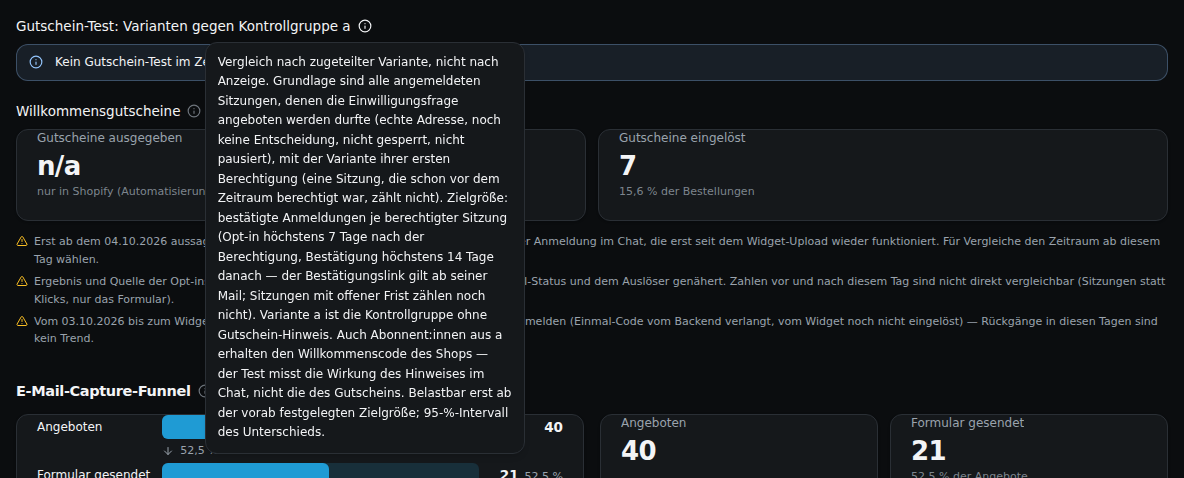
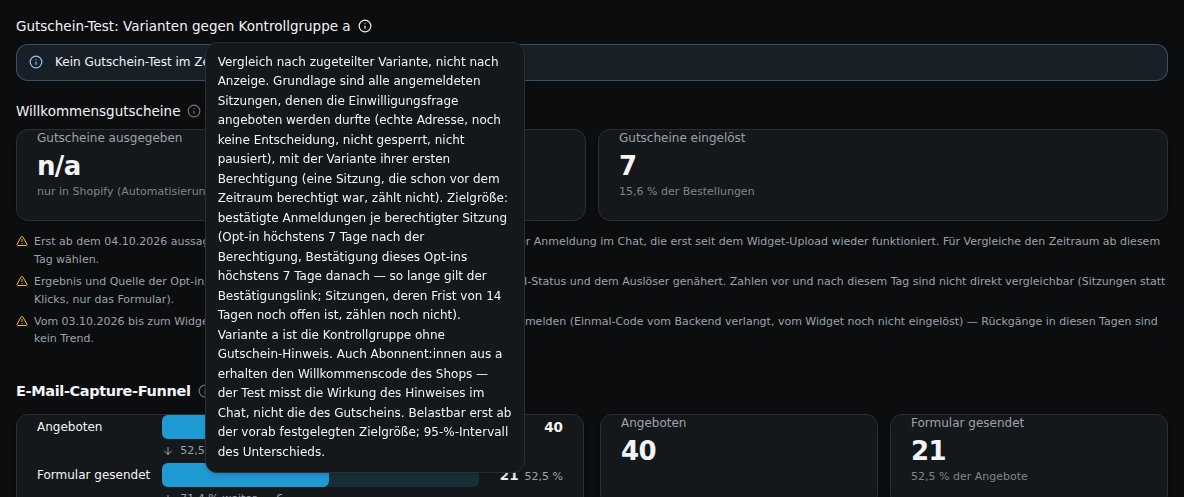
Gutschein-Test: count only confirmations of an in-window opt-in
A confirmation counts when it belongs to an opt-in that mailed a link
within the window, at most the link's life after that opt-in (the same
capture when both events carry captureId). InfoTip and screenshots updated.

Claude-Session: https://claude.ai/code/session_012fxHBW88bMmfRpyx9fu3p7

diff --git a/src/lib/kpi-consent-experiment-store.ts b/src/lib/kpi-consent-experiment-store.ts
@@ -8,8 +8,9 @@
 //   getConsentExperiment — intention-to-treat per assigned variant: every
 //     signed-in session the ask may be offered to (server event
 //     consent_ask_eligible, consent-ask-kpi.ts) with its FIRST assigned
-//     variant; opt-in, DOI mail and confirmation in the same session within
-//     MARKETING_DOI_EXPIRY_DAYS after it; folded by consent-experiment.mjs.
+//     variant; opt-in and DOI mail in the same session within
+//     MARKETING_DOI_EXPIRY_DAYS after it, the confirmation of such an opt-in
+//     within the link's life after the opt-in; folded by consent-experiment.mjs.
 //     Orders / revenue per arm are deliberately not included (open option:
 //     customer_session_links → customer_orders, 30-day window, aggregate only,
 //     after the owner's OK).
@@ -41,7 +42,7 @@ const CONSENT_EXPERIMENT_MAX = 20_000;
 export type ConsentExperimentSummary = ReturnType<typeof summariseConsentExperiment>;
 
 export interface ConsentExperimentKpis extends ConsentExperimentSummary {
-  /** Days after eligibility in which an opt-in counts (MARKETING_DOI_EXPIRY_DAYS); a confirmation counts up to twice that. */
+  /** Days after eligibility in which an opt-in counts (MARKETING_DOI_EXPIRY_DAYS); its confirmation counts up to as many days after the opt-in. */
   windowDays: number;
   /** More than CONSENT_EXPERIMENT_MAX eligible sessions in the period (the latest are left out). */
   truncated: boolean;
@@ -89,9 +90,9 @@ export async function getConsentExperiment(
         SELECT * FROM s ORDER BY at LIMIT ${CONSENT_EXPERIMENT_MAX}
       ), f AS (
         SELECT e.*,
-               -- Opt-ins count up to the expiry days after eligibility, confirmations
-               -- up to twice that (a DOI link stays valid that long after its mail), so a
-               -- late opt-in's click still counts once the window has closed.
+               -- Opt-ins count up to the expiry days after eligibility, their
+               -- confirmation up to the link's life after the opt-in — so the window
+               -- closes twice the expiry days after eligibility.
                e.at <= now() - make_interval(days => ${days * 2}::int) AS window_closed,
                e.at >= ${start}::date AS after_start,
                EXISTS (
@@ -126,12 +127,28 @@ export async function getConsentExperiment(
                          OR (o.data->>'outcome' IS NULL
                              AND COALESCE((o.data->>'alreadyConfirmed')::boolean, o.data->>'doiStatus' = 'confirmed')))
                ) AS already_subscribed,
+               -- A confirmation of an in-window opt-in that mailed a link, at most
+               -- the link's life after that opt-in (the same capture when both
+               -- events carry captureId); a later opt-in's click does not count.
                EXISTS (
-                 SELECT 1 FROM kpi_events c
-                  WHERE c.session_id = e.session_id
+                 SELECT 1 FROM kpi_events o
+                   JOIN kpi_events c
+                     ON c.session_id = o.session_id
                     AND c.event = ${KPI_EMAIL_CAPTURE_MARKETING_CONFIRMED}
-                    AND c.created_at >= e.at
-                    AND c.created_at <= e.at + make_interval(days => ${days * 2}::int)
+                    AND c.created_at >= o.created_at
+                    AND c.created_at <= o.created_at + make_interval(days => ${days}::int)
+                    AND (c.data->>'captureId' IS NULL OR o.data->>'captureId' IS NULL
+                         OR c.data->>'captureId' = o.data->>'captureId')
+                  WHERE o.session_id = e.session_id
+                    AND o.event = ${KPI_EMAIL_CAPTURE_MARKETING_OPTED_IN}
+                    AND o.data->>'trigger' = 'signin_optin'
+                    AND o.created_at >= e.at
+                    AND o.created_at <= e.at + make_interval(days => ${days}::int)
+                    AND CASE WHEN o.data->>'outcome' IS NOT NULL
+                             THEN o.data->>'outcome' = 'doi_required'
+                             ELSE COALESCE((o.data->>'doiRequired')::boolean, o.data->>'doiStatus' = 'pending')
+                                  AND COALESCE(o.data->>'doiCooldown', 'false') <> 'true' END
+                    AND COALESCE(o.data->>'doiSent', 'true') <> 'false'
                ) AS confirmed
           FROM e
       )

diff --git a/src/app/admin/kpi/sections/ConsentGateSection.tsx b/src/app/admin/kpi/sections/ConsentGateSection.tsx
@@ -50,7 +50,7 @@ const VARIANT_INFO =
 
 /** @param days MARKETING_DOI_EXPIRY_DAYS (default 7) */
 const experimentInfo = (days: number) =>
-  `Vergleich nach zugeteilter Variante, nicht nach Anzeige. Grundlage sind alle angemeldeten Sitzungen, denen die Einwilligungsfrage angeboten werden durfte (echte Adresse, noch keine Entscheidung, nicht gesperrt, nicht pausiert), mit der Variante ihrer ersten Berechtigung (eine Sitzung, die schon vor dem Zeitraum berechtigt war, zählt nicht). Zielgröße: bestätigte Anmeldungen je berechtigter Sitzung (Opt-in höchstens ${num(days)} Tage nach der Berechtigung, Bestätigung höchstens ${num(days * 2)} Tage danach — der Bestätigungslink gilt ab seiner Mail; Sitzungen mit offener Frist zählen noch nicht). Variante a ist die Kontrollgruppe ohne Gutschein-Hinweis. Auch Abonnent:innen aus a erhalten den Willkommenscode des Shops — der Test misst die Wirkung des Hinweises im Chat, nicht die des Gutscheins. Belastbar erst ab der vorab festgelegten Zielgröße; 95-%-Intervall des Unterschieds.`;
+  `Vergleich nach zugeteilter Variante, nicht nach Anzeige. Grundlage sind alle angemeldeten Sitzungen, denen die Einwilligungsfrage angeboten werden durfte (echte Adresse, noch keine Entscheidung, nicht gesperrt, nicht pausiert), mit der Variante ihrer ersten Berechtigung (eine Sitzung, die schon vor dem Zeitraum berechtigt war, zählt nicht). Zielgröße: bestätigte Anmeldungen je berechtigter Sitzung (Opt-in höchstens ${num(days)} Tage nach der Berechtigung, Bestätigung dieses Opt-ins höchstens ${num(days)} Tage danach — so lange gilt der Bestätigungslink; Sitzungen, deren Frist von ${num(days * 2)} Tagen noch offen ist, zählen noch nicht). Variante a ist die Kontrollgruppe ohne Gutschein-Hinweis. Auch Abonnent:innen aus a erhalten den Willkommenscode des Shops — der Test misst die Wirkung des Hinweises im Chat, nicht die des Gutscheins. Belastbar erst ab der vorab festgelegten Zielgröße; 95-%-Intervall des Unterschieds.`;
 
 const CODES_INFO =
   "Die Willkommenscodes verschickt heute ein Werkzeug in Shopify, nicht Mo — wie viele ausgegeben wurden, steht nur im Bericht dieser Automatisierung. „Eingelöst“ zählt Bestellungen der Bestellkopie mit einem Willkommenscode (Muster WELCOME_CODE_MATCH); ohne Muster „n/a“, keine Schätzung.";
